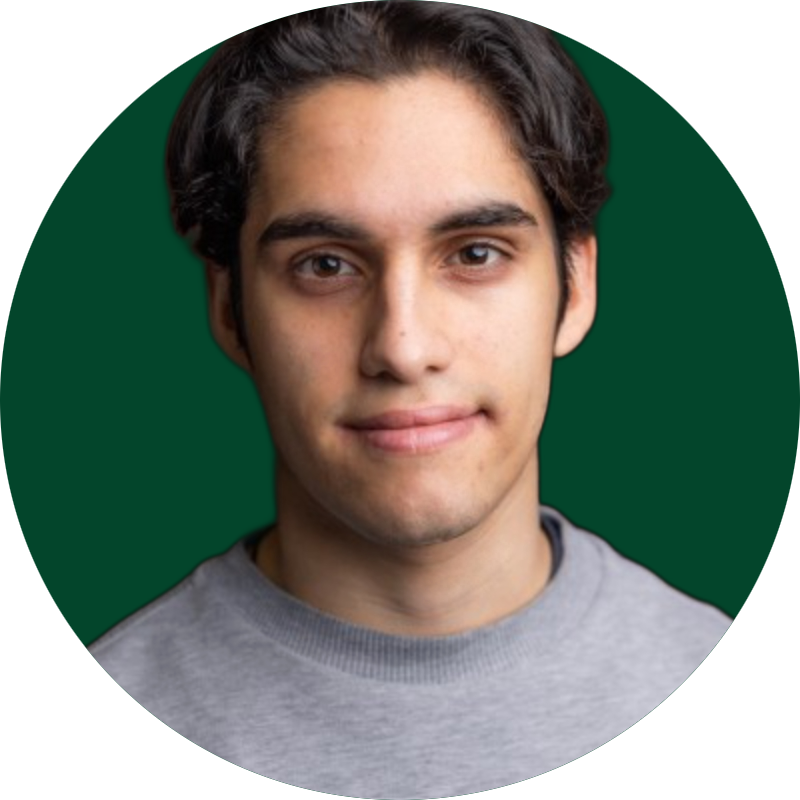
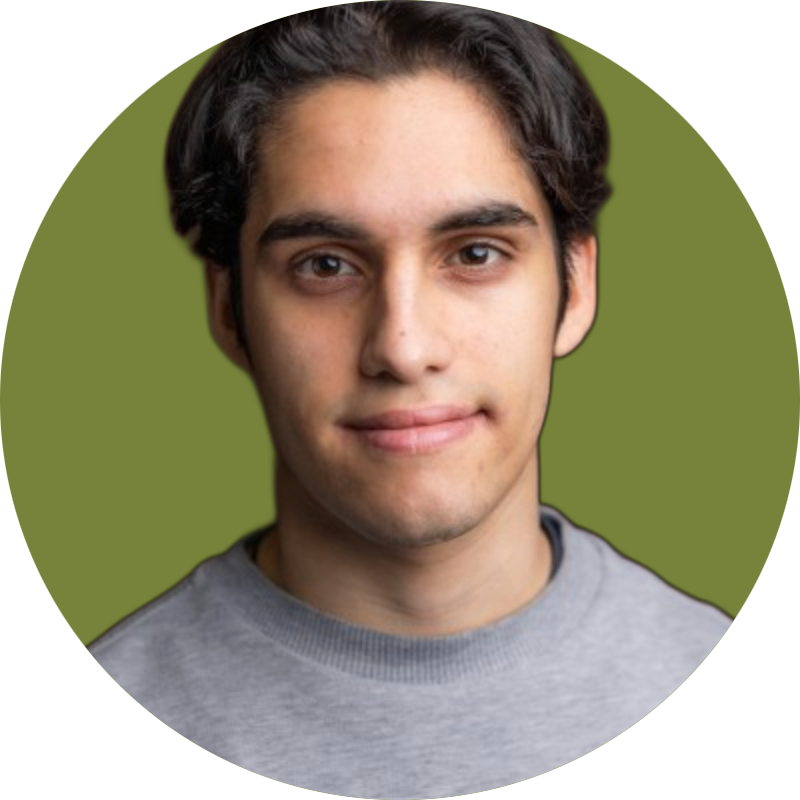
about section complete

diff --git a/index.html b/index.html
@@ -37,7 +37,7 @@
     </nav>
     <section id = "profile">
         <div class = "section__pic-container">
-            <img src = "./assets/profile-pic.png " alt = "Nima Pishva profile picure"
+            <img class = "profilepic" src = "./assets/profile-pic.png " alt = "Nima Pishva profile picure"
             />
         </div>
         <div class = "section__text">
@@ -92,7 +92,7 @@
                   class="icon"
                 />
                 <h3>Experience</h3>
-                <p class = "experience">2+ years <br />Frontend Development</p>
+                <p class = "experience">1+ years <br />Software Development</p>
               </div>
               <div class="details-container">
                 <img
@@ -105,13 +105,16 @@
               </div>
             </div>
             <div class="text-container">
-              <p>
-                Lorem ipsum dolor sit amet consectetur adipisicing elit. Hic quis
-                reprehenderit et laborum, rem, dolore eum quod voluptate
-                exercitationem nobis, nihil esse debitis maxime facere minus sint
-                delectus velit in eos quo officiis explicabo deleniti dignissimos.
-                Eligendi illum libero dolorum cum laboriosam corrupti quidem,
-                reiciendis ea magnam? Nulla, impedit fuga!
+              <p class = "about-me-text">
+                I recently graduated from Memorial Univercity of Newfoundland
+                with a Bachelor of Science in Computer Science. I have just relocated
+                to the GTA and I am looking for a full-time position as a Developer. In the meantime
+                I am exploring new technologies and working on personal projects. Recently the field of Cybersecurity
+                has peaked my interest and also Cloud Computing, which I am currently 
+                working to get a certificate for in AWS and Salesforce. During my time in 
+                University I completed a 8 month work term with ClearRisk as a Software Developer,
+                this workterm introduced me to cloud computing, AWS and Salesforce which I am now
+                pursuing further.
               </p>
             </div>
           </div>

diff --git a/style.css b/style.css
@@ -170,12 +170,13 @@ section {
   height: 80vh;
 }
 
+
 .section__pic-container {
   display: flex;
   height: 500px;
   width: 500px;
   margin: auto 0;
-  padding: 3rem;
+  padding: 6rem;
 }
 
 .section__text {
@@ -212,7 +213,7 @@ section {
 
 .icon {
   cursor: pointer;
-  height: 2rem;
+  height: 3rem;
 }
 
 /* BUTTONS */
@@ -276,7 +277,7 @@ section {
 }
 
 .about-details-container {
-    margin-top: 1rem;
+    margin-top: 0.1rem;
     justify-content: center;
     flex-direction: column;
 }
@@ -298,9 +299,11 @@ section {
 }
 
 .details-container {
+  height: 150px;
+  width: 100px;
   padding: 1.5rem;
   flex: 1;
-  background: rgb(1,86,33);
+  background: rgb(138, 154, 91);
   border-radius: 2rem;
   border: rgb(53, 53, 53) 0.1rem solid;
   border-color: black;
@@ -309,6 +312,7 @@ section {
 
 p.experience, p.education {
     color:white;
+    font-size: 1.3rem;
 }
 
 
@@ -321,4 +325,8 @@ p.experience, p.education {
 .section__pic-container {
   width: 400px;
   margin: auto 0;
+}
+
+p.about-me-text{
+    text-align: center;
 }
